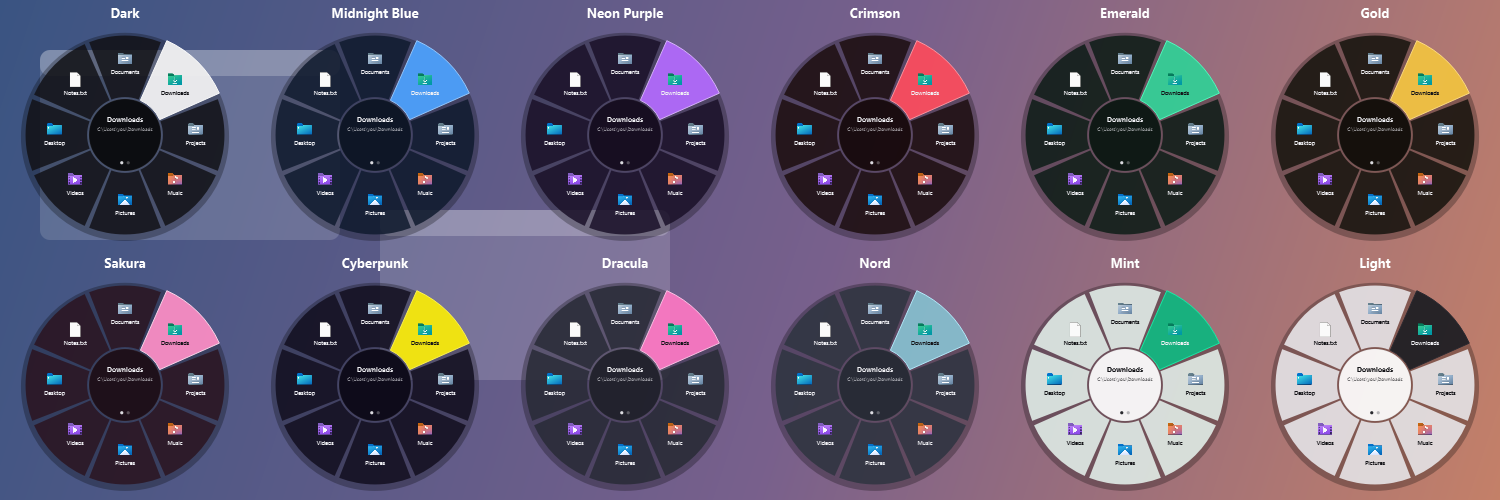
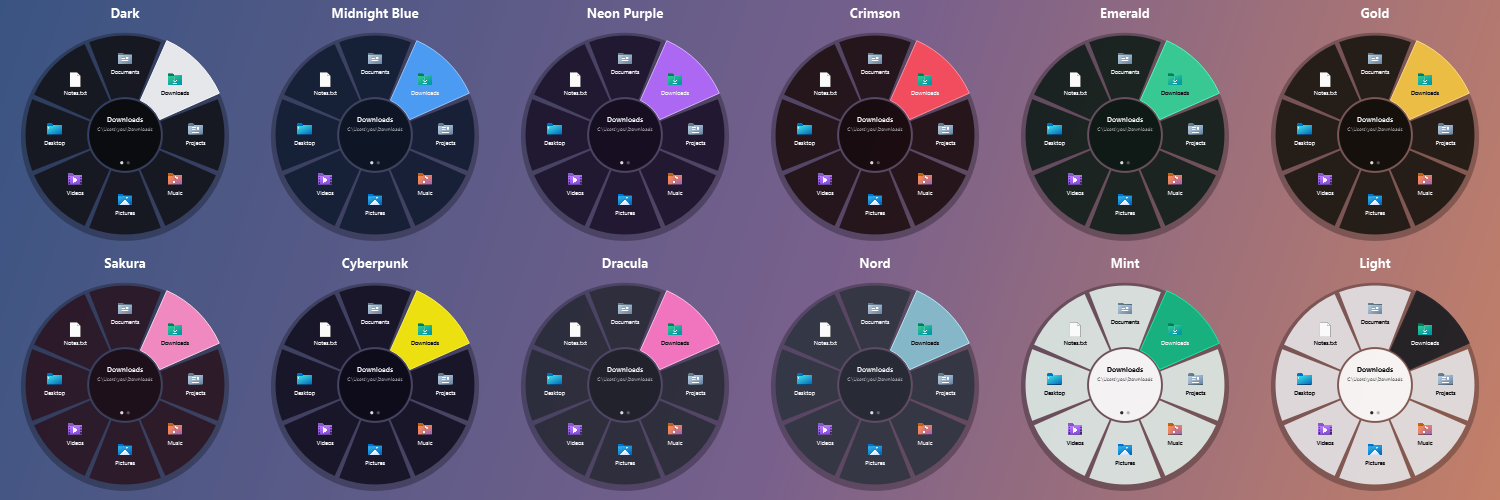
Use a plain background in the README images

Changed region(s): [[0.092, 0.09, 0.46, 0.57], [0.0, 0.42, 0.0613, 0.48], [0.0, 0.09, 0.0613, 0.15]]

diff --git a/tools/make_docs_media.py b/tools/make_docs_media.py
@@ -51,13 +51,6 @@ def backdrop(p, w, h, dim=0.0):
     g.setColorAt(0.55, QColor(120, 96, 140))
     g.setColorAt(1, QColor(196, 128, 104))
     p.fillRect(QRectF(0, 0, w, h), QBrush(g))
-    # jendela tiruan supaya terlihat seperti desktop
-    for x, y, ww, hh in ((40, 50, 300, 190), (380, 210, 290, 170)):
-        p.setPen(Qt.NoPen)
-        p.setBrush(QColor(255, 255, 255, 38))
-        p.drawRoundedRect(QRectF(x, y, ww, hh), 10, 10)
-        p.setBrush(QColor(255, 255, 255, 55))
-        p.drawRoundedRect(QRectF(x, y, ww, 26), 10, 10)
     if dim:
         p.fillRect(QRectF(0, 0, w, h), QColor(0, 0, 0, int(80 * dim)))
 
@@ -258,7 +251,8 @@ add(frame(W, H, t=1, page=1, cur=(cx, cy), caption="Scroll to switch pages"), 13
 for i in range(5, -1, -1):
     add(frame(W, H, t=i / 5, page=1, cur=(cx, cy), caption="Scroll to switch pages"), 30)
 
-pal = [f.quantize(colors=200, method=Image.Quantize.MEDIANCUT, dither=Image.Dither.NONE) for f in frames]
+# dithering supaya gradasi latar tidak terlihat patah-patah di palet GIF yang hanya 256 warna
+pal = [f.quantize(colors=256, method=Image.Quantize.MEDIANCUT, dither=Image.Dither.FLOYDSTEINBERG) for f in frames]
 pal[0].save(OUT / "demo.gif", save_all=True, append_images=pal[1:], duration=durations, loop=0, optimize=True)
 
 # --- gambar utama
